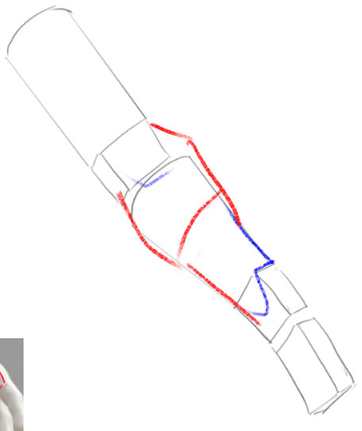
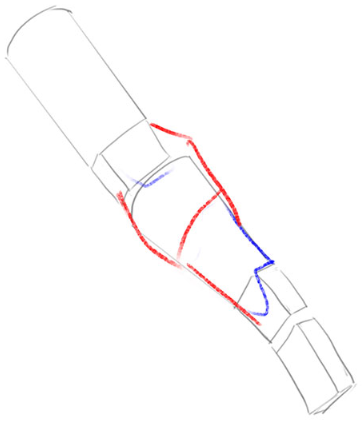
update

Changed region(s): [[0.0, 0.7842, 0.0912, 1.0]]

diff --git a/source/js/personal-gallery.js b/source/js/personal-gallery.js
@@ -7,6 +7,13 @@
     const items = [...grid.querySelectorAll('.personal-gallery-item')]
     const images = items.map(item => item.querySelector('img'))
 
+    // Dimensions are generated with the page, before lazy images are downloaded.
+    const aspectRatio = image => {
+      const width = Number(image.getAttribute('width')) || image.naturalWidth
+      const height = Number(image.getAttribute('height')) || image.naturalHeight
+      return width && height ? width / height : 0
+    }
+
     const layout = () => {
       const styles = getComputedStyle(grid)
       const rowHeight = parseFloat(styles.gridAutoRows)
@@ -14,45 +21,41 @@
 
       items.forEach((item, index) => {
         const image = images[index]
-        if (!image.naturalWidth || !image.naturalHeight) return
-        const ratio = image.naturalWidth / image.naturalHeight
+        const ratio = aspectRatio(image)
+        if (!ratio) return
         item.classList.toggle('is-wide', ratio >= 1.3)
-        const renderedHeight = item.getBoundingClientRect().width * image.naturalHeight / image.naturalWidth
+        const renderedHeight = item.getBoundingClientRect().width / ratio
         item.style.gridRowEnd = `span ${Math.ceil((renderedHeight + rowGap) / (rowHeight + rowGap))}`
       })
     }
 
-    Promise.all(images.map(image => {
-      if (image.complete) return Promise.resolve()
-      return new Promise(resolve => {
-        image.addEventListener('load', resolve, { once: true })
-        image.addEventListener('error', resolve, { once: true })
-      })
-    })).then(() => {
-      const regularItems = []
-      const wideItems = []
+    const regularItems = []
+    const wideItems = []
 
-      items.forEach((item, index) => {
-        const image = images[index]
-        if (!image.naturalWidth || !image.naturalHeight) {
-          item.hidden = true
-          return
-        }
-        const isWide = image.naturalWidth / image.naturalHeight >= 1.3
-        item.classList.toggle('is-wide', isWide)
-        ;(isWide ? wideItems : regularItems).push(item)
-      })
+    items.forEach((item, index) => {
+      const image = images[index]
+      const isWide = aspectRatio(image) >= 1.3
+      item.classList.toggle('is-wide', isWide)
+      ;(isWide ? wideItems : regularItems).push(item)
 
-      // Break up runs of similarly shaped images while retaining each group's order.
-      while (regularItems.length || wideItems.length) {
-        regularItems.splice(0, 2).forEach(item => grid.appendChild(item))
-        if (wideItems.length) grid.appendChild(wideItems.shift())
+      const hideFailedImage = () => {
+        item.hidden = true
+        item.style.display = 'none'
       }
-
-      grid.classList.add('is-ready')
-      requestAnimationFrame(layout)
-      new ResizeObserver(layout).observe(grid)
+      image.addEventListener('load', layout, { once: true })
+      image.addEventListener('error', hideFailedImage, { once: true })
+      if (image.complete && !image.naturalWidth) hideFailedImage()
     })
+
+    // Break up runs of similarly shaped images while retaining each group's order.
+    while (regularItems.length || wideItems.length) {
+      regularItems.splice(0, 2).forEach(item => grid.appendChild(item))
+      if (wideItems.length) grid.appendChild(wideItems.shift())
+    }
+
+    grid.classList.add('is-ready')
+    layout()
+    new ResizeObserver(layout).observe(grid)
   }
 
   document.addEventListener('DOMContentLoaded', initGallery)

diff --git a/source/_posts/tenten人体17期-Week2：基本骨架与关节球.md b/source/_posts/tenten人体17期-Week2：基本骨架与关节球.md
@@ -248,14 +248,14 @@ categories: 绘画
 </figure>
 
 ## 臀部
-臀部从骨盆上方 $\frac{1}{3}$ 开始，长度和骨盆长度一致，连接到大腿后外侧，屁股最高点对齐骨盆底面。然后处理大转子，本质上是两个球和骨盆方块的交线，可以理解成从骨盆底面顶点出发作一个内裤的形状，前面大后面小。最后将屁股一分为二，在底部作一个 W。
+臀部从骨盆上方 $\frac{1}{3}$ 开始，长度和骨盆长度一致，连接到大腿后外侧，屁股最高点对齐骨盆底面。然后用弧线链接骨盆和大腿的间隙，得到臀部的体积。接下来处理大转子，可以理解成作一个内裤的形状，前面大后面小。最后将屁股一分为二，在底部作一个 W。
 
 <figure style="text-align: center;">
-<img src="/illustrations/tenten人体-Week2/32.png" alt="臀部" width="70%">
+<img src="/illustrations/tenten人体-Week2/32.png" alt="臀部" width="30%">
 <figcaption>臀部</figcaption>
 </figure>
 
-> 实际上这两条弧线似乎没啥用……只是确定大腿后外侧那个点用的。
+> 实际上这两条线似乎没啥用……只是确定大腿后外侧那个点用的。但如果从侧面看，其实刚好就是这样的体积。
 
 可以理解成小刀拉屁股，将原本的整块体积一分为二。交点处是肛门，在底面一半的位置。这里和胸腔背面一样是凹陷进去的，注意透视：
 
